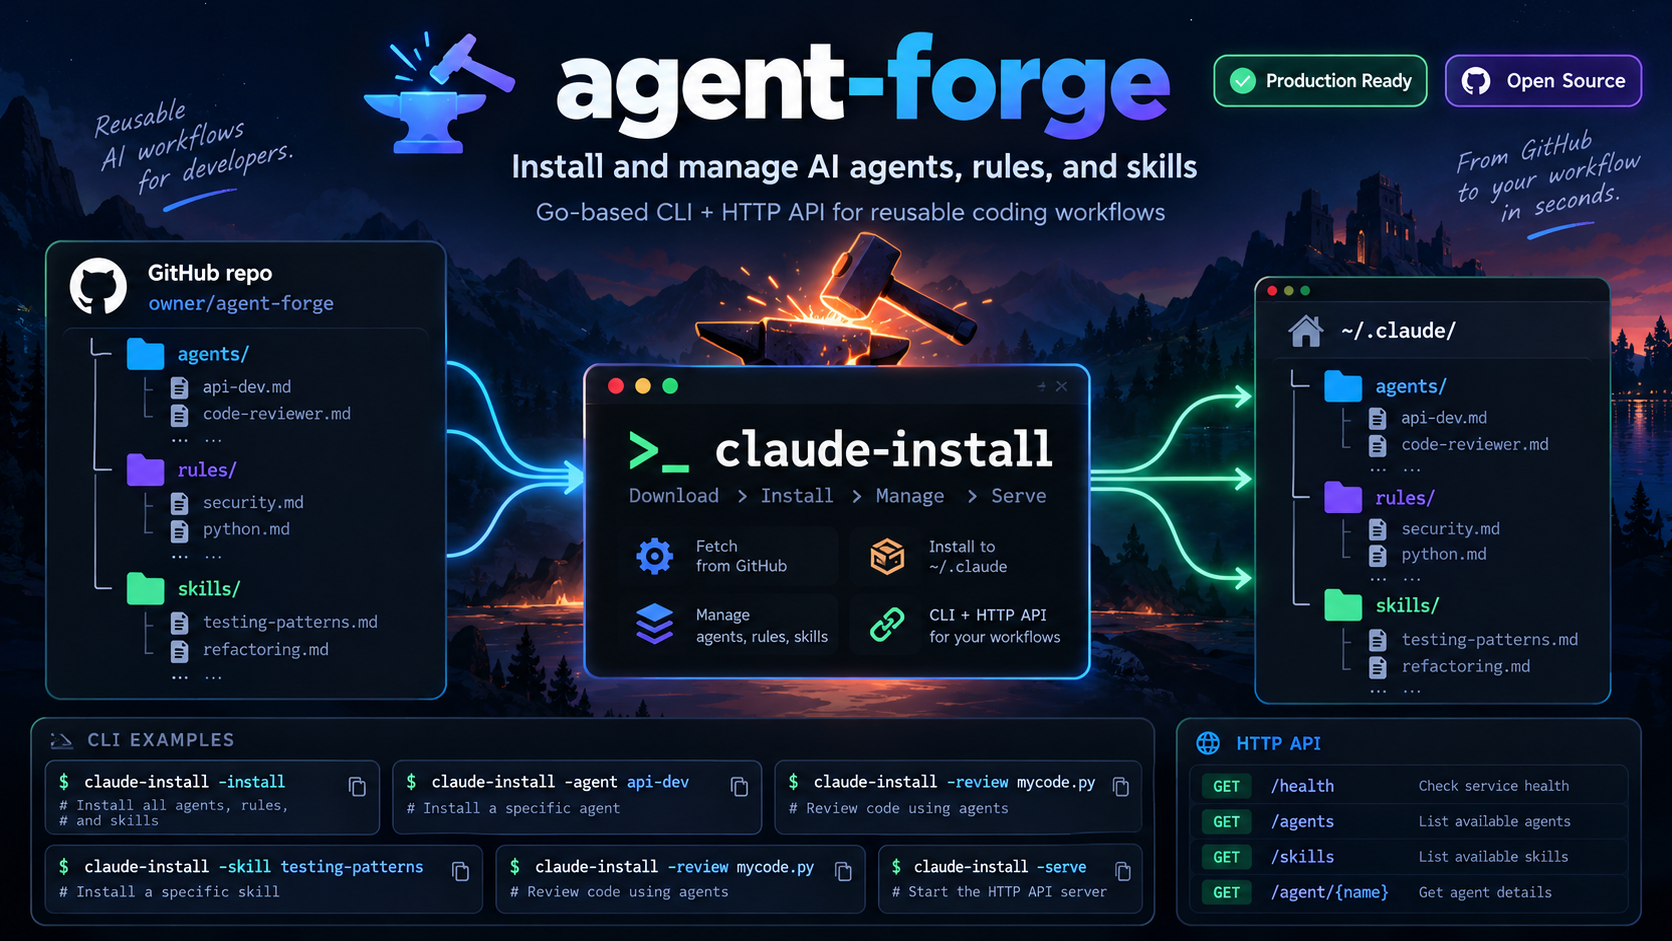
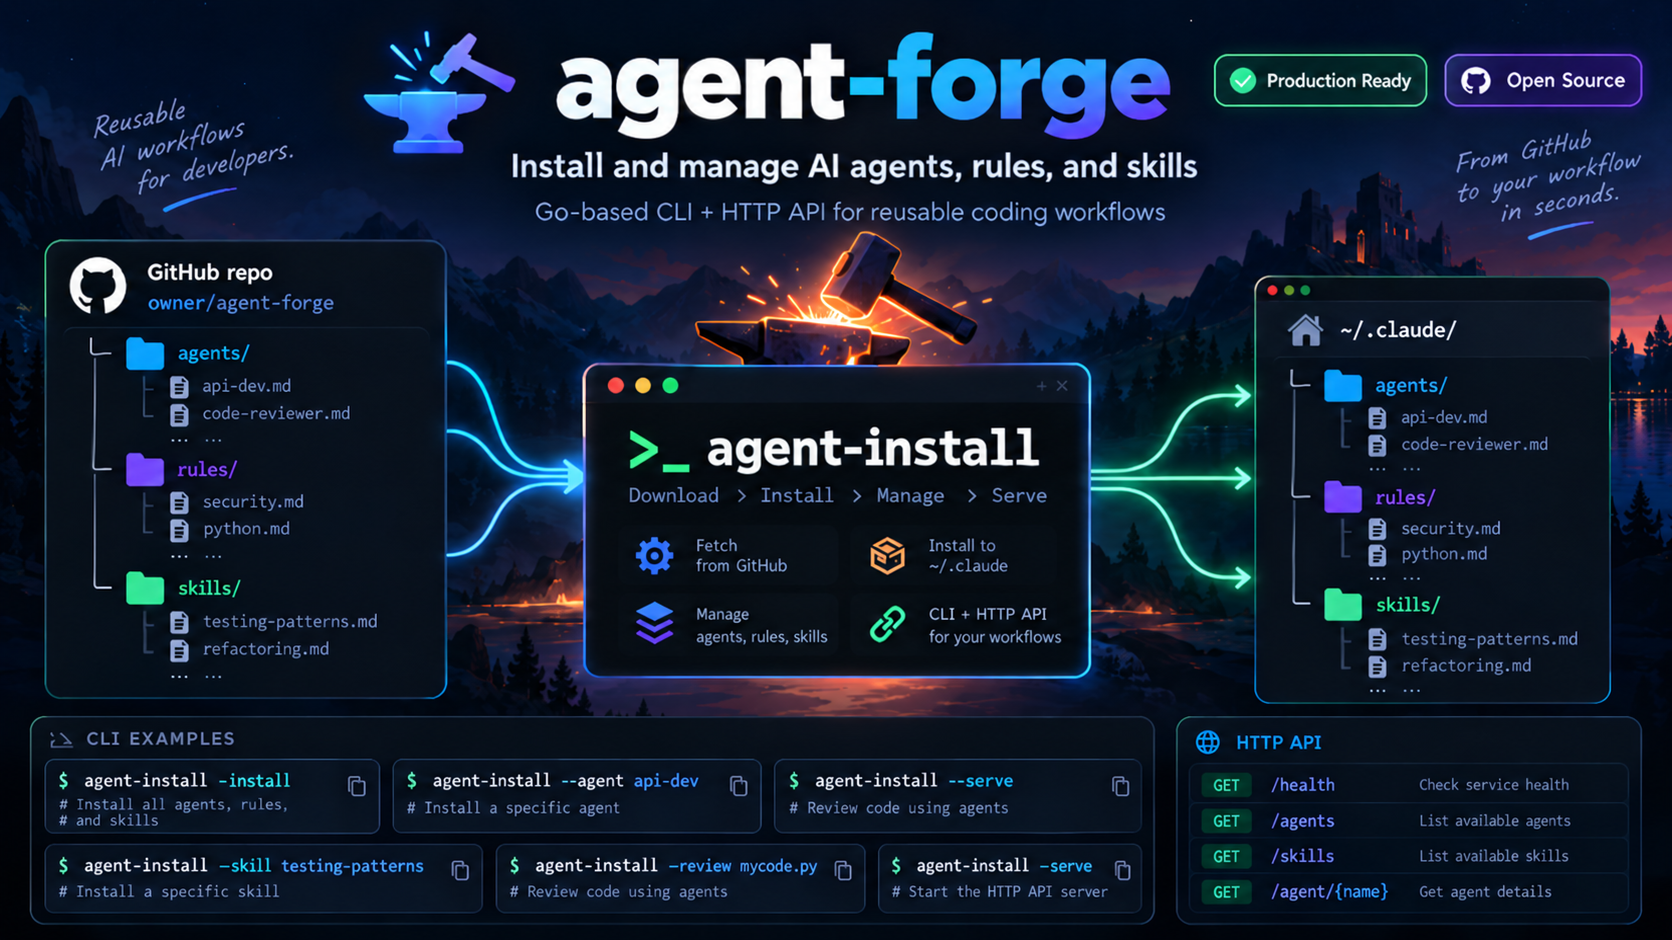
Updated Docs

diff --git a/README.md b/README.md
@@ -1,6 +1,6 @@
 # Agent Installer
 
-A lightweight Go-based CLI tool for installing and managing Claude agents, skills, and rules from a centralised GitHub repository.
+A lightweight Go-based CLI tool for installing and managing agents, skills, and rules from a centralised GitHub repository.
 
 ![Agent](agent.png)
 
